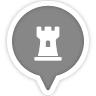
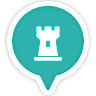
changement couleur markers

diff --git a/src/components/GoogleMap/GoogleMap.js b/src/components/GoogleMap/GoogleMap.js
@@ -3,7 +3,7 @@ import React from "react";
 import GoogleMapReact from "google-map-react";
 import axios from "axios";
 import "./GoogleMap.css";
-import imageParcs from "./parks.png";
+import imageParcs from "./park.png";
 import imageParking from "./Parking.png";
 import imageMusee from "./Musee.png";
 
@@ -18,7 +18,7 @@ function MarkerParc() {
         transform: "translate(-50%, -50%)",
       }}
     >
-      <img src={imageParcs} width="30px" alt="parc"></img>
+      <img src={imageParcs} width="35px" alt="parc"></img>
     </div>
   );
 }
@@ -31,7 +31,7 @@ function MarkerParking() {
         transform: "translate(-50%, -50%)",
       }}
     >
-      <img src={imageParking} width="30px" alt="parking"></img>
+      <img src={imageParking} width="35px" alt="parking"></img>
     </div>
   );
 }
@@ -44,7 +44,7 @@ function MarkerMusee() {
         transform: "translate(-50%, -50%)",
       }}
     >
-      <img src={imageMusee} width="30px" alt="musee"></img>
+      <img src={imageMusee} width="35px" alt="musee"></img>
     </div>
   );
 }
